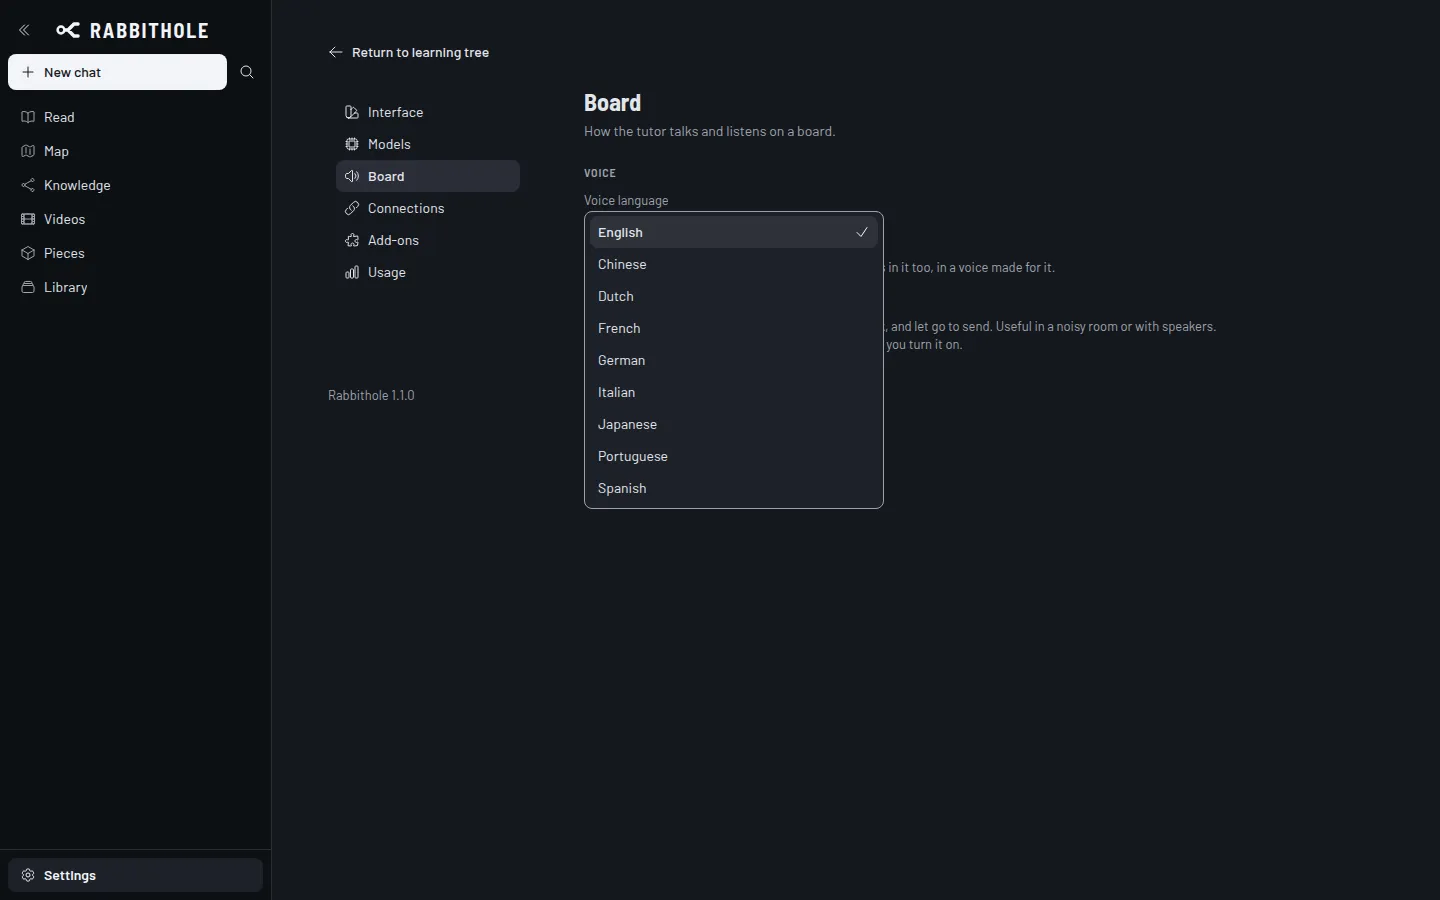
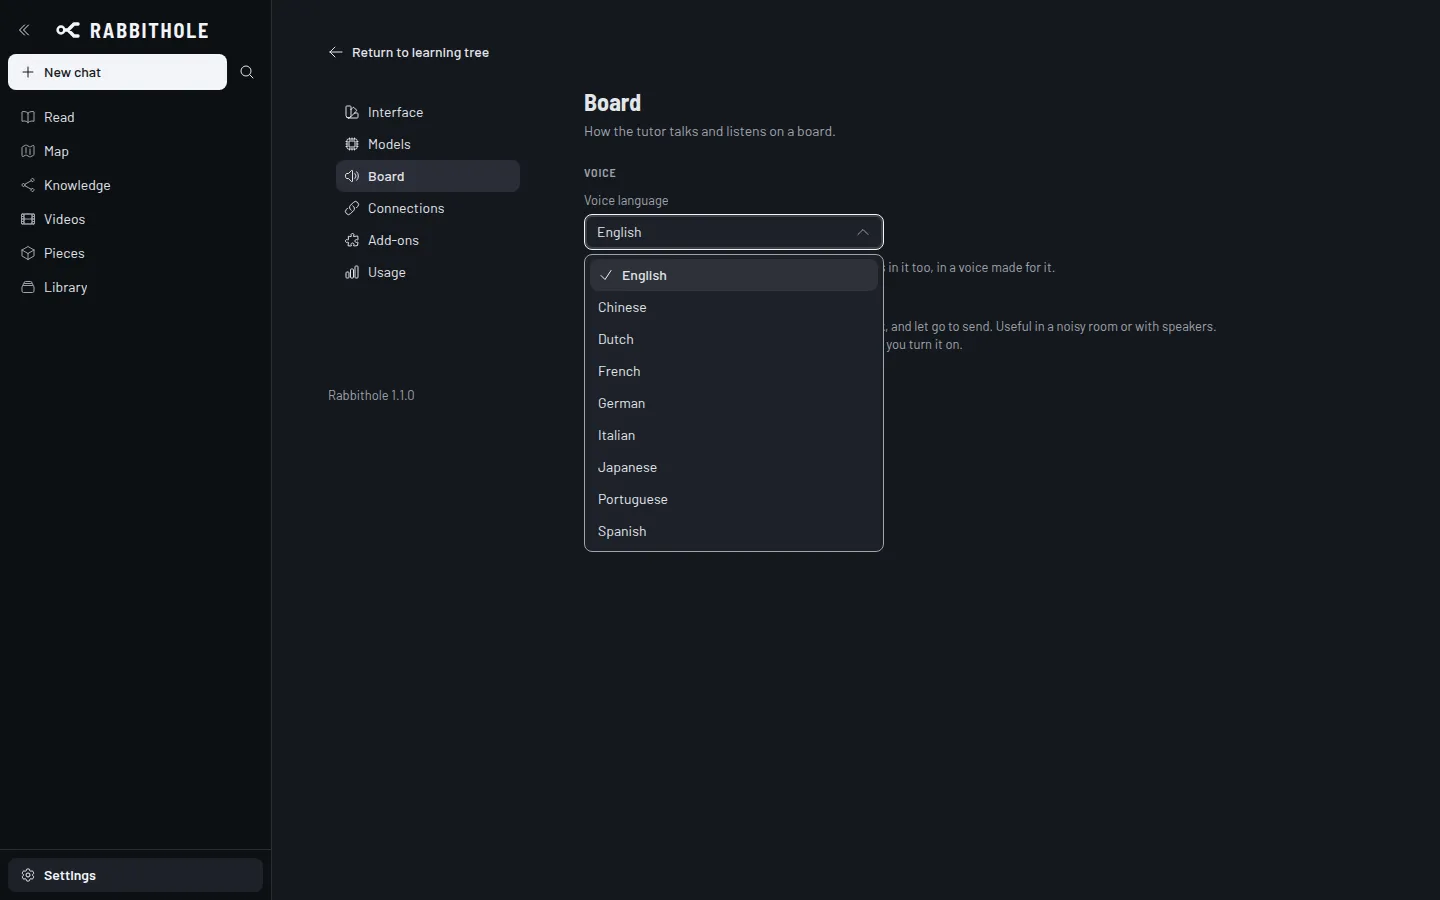
review: Voice language list opens below its dropdown, check at start (mockup state 2)

Changed region(s): [[0.4062, 0.2178, 0.5938, 0.6222], [0.5938, 0.2489, 0.625, 0.28]]

diff --git a/src/settings/BoardSettings.tsx b/src/settings/BoardSettings.tsx
@@ -41,6 +41,8 @@ export default function BoardSettings() {
                 <Selector
                     label="Voice language"
                     width={300}
+                    placement="below"
+                    indicatorPosition="start"
                     value={lang}
                     options={languages}
                     onChange={(value) => {
